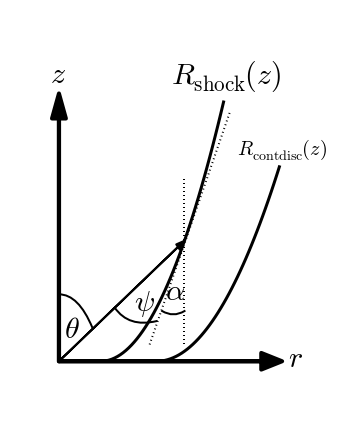
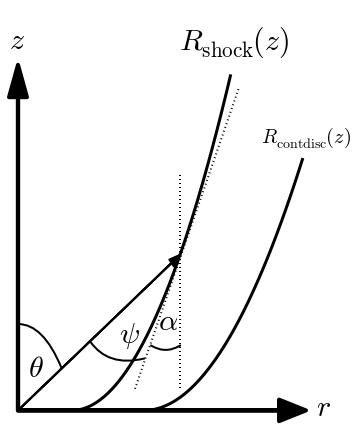
plot script for sketch

diff --git a/scripts/sketch.py b/scripts/sketch.py
@@ -1,0 +1,56 @@
+from matplotlib import pyplot as plt
+from matplotlib.path import Path
+import matplotlib.patches as patches
+
+
+
+fig = plt.figure(figsize=(5,6))
+ax = fig.add_subplot(111)
+ax.arrow(0.05,0.05,0,.8, lw=4, head_width=0.05, fc='k', length_includes_head=True)
+ax.arrow(0.05,0.05,.8,0, lw=4, head_width=0.05, fc='k', length_includes_head=True)
+ax.xaxis.set_visible(False)
+ax.yaxis.set_visible(False)
+for i in ['top', 'bottom', 'right', 'left']:
+    ax.spines[i].set_visible(False)
+ax.text(0.05, .9, '$z$', fontsize=30, horizontalalignment='center', verticalalignment='center')
+ax.text(0.9, .05, '$r$', fontsize=30, horizontalalignment='center', verticalalignment='center')
+
+def shock_surface(x):
+    '''calculate a function that makes it easy to define the variables of the geometry.'''
+    return 4*x**2
+
+x = np.arange(0,0.45,0.01)
+ax.plot(0.05+0.15+x, 0.05+shock_surface(x), lw=3, c='k')
+ax.text(0.65, .9, r'$R_{\rm{shock}}(z)$', fontsize=30, horizontalalignment='center', verticalalignment='center')
+
+ax.arrow(0.05,0.05,.15+.3, shock_surface(0.3), lw=2, head_width=0.02, fc='k', length_includes_head=True)
+
+ax.plot([.5, 0.5], [.1,.6], ':k', lw=2)
+x = np.array([-.1,.1])
+ax.plot([.375,.665],[.1,.8], ':k', lw=2)
+
+ax.text(0.1, .15, r'$\theta$', fontsize=30, horizontalalignment='center', verticalalignment='center')
+path = Path([(.05,.25),(.12,.25),(.17,.15)], [Path.MOVETO, Path.CURVE3, Path.CURVE3])
+patch = patches.PathPatch(path, facecolor='none', lw=2)
+ax.add_patch(patch)
+
+ax.text(0.47, .25, r'$\alpha$', fontsize=30, horizontalalignment='center', verticalalignment='center')
+path = Path([(.5,.2),(.46,.18),(.42,.2)], [Path.MOVETO, Path.CURVE3, Path.CURVE3])
+patch = patches.PathPatch(path, facecolor='none', lw=2)
+ax.add_patch(patch)
+
+ax.text(0.36, .22, r'$\psi$', fontsize=30, horizontalalignment='center', verticalalignment='center')
+path = Path([(.4,.17),(.3,.15),(.25,.21)], [Path.MOVETO, Path.CURVE3, Path.CURVE3])
+patch = patches.PathPatch(path, facecolor='none', lw=2)
+ax.add_patch(patch)
+
+x = np.arange(0,0.45,0.01)
+ax.plot(0.05+0.35+x, 0.05+3*x**2, lw=3, c='k')
+ax.text(0.85, .68, r'$R_{\rm{contdisc}}(z)$', fontsize=20, horizontalalignment='center', verticalalignment='center')
+
+ax.set_xlim([0,1])
+ax.set_ylim([0,1])
+fig.subplots_adjust(left=0.,right=1.,bottom=0,top=1)
+fig.savefig('../figures/sketch/sketch.png')
+fig.savefig('../figures/sketch/sketch.eps')
+
